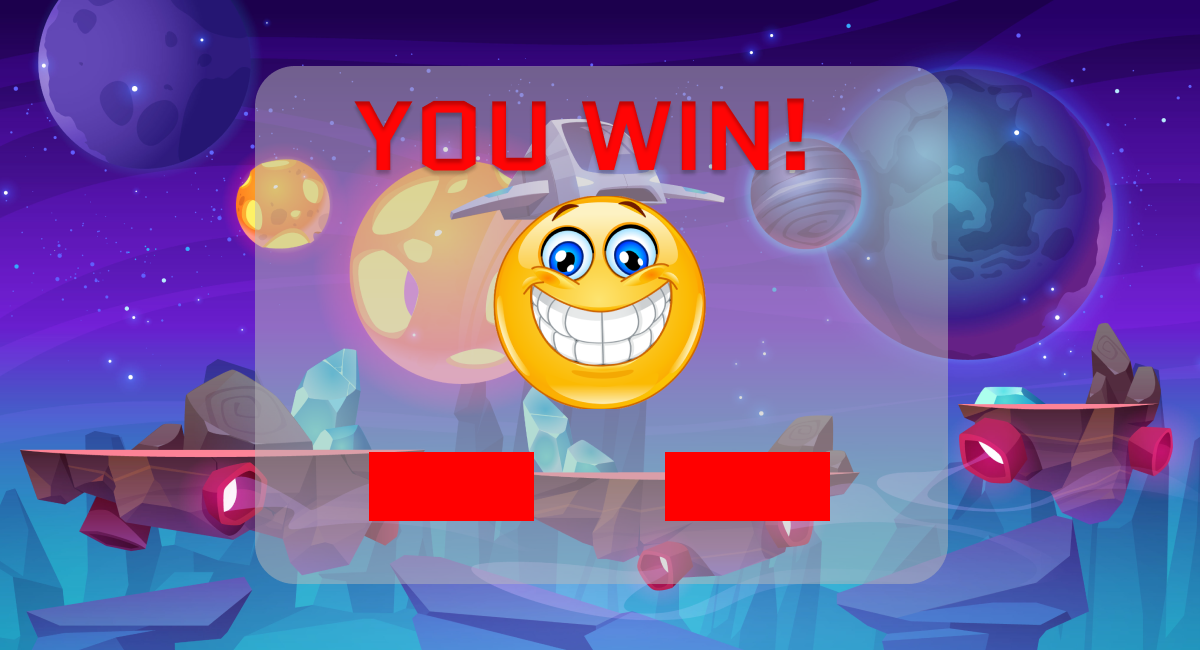
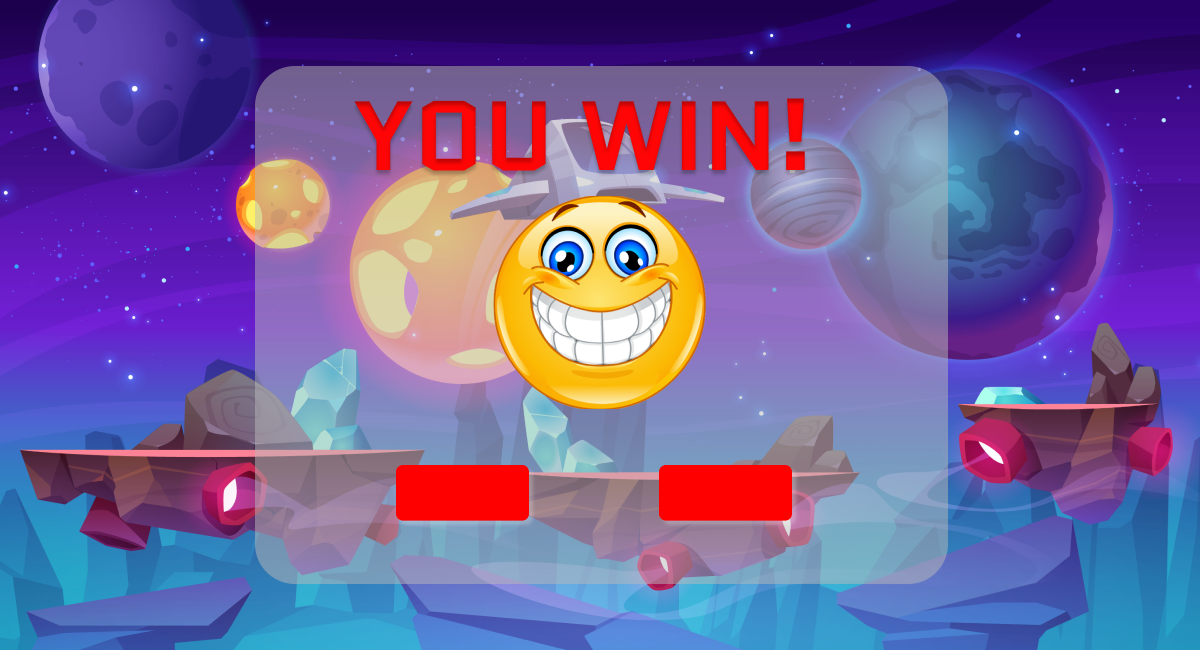
add main ennemy

diff --git a/invader_shooter.py b/invader_shooter.py
@@ -121,8 +121,8 @@ def global_variable():
 
 def displayLost():
     canvas.create_image(1200, 650, anchor=SE, image=game_over)
-    canvas.create_text(452,467,text="AGAIN",font=("Purisa", 30, BOLD), fill="white",tags=("startTheGame","start"))
-    canvas.create_text(744,467,text="EXIT",font=("Purisa", 30, BOLD), fill="white",tags=("exitTheGame","start"))
+    canvas.create_text(452,480,text="AGAIN",font=("Purisa", 25, BOLD), fill="white",tags=("startTheGame","start"))
+    canvas.create_text(748,480,text="EXIT",font=("Purisa", 25, BOLD), fill="white",tags=("exitTheGame","start"))
 
 # def displayWin():
 #     canvas.create_image(1200, 650, anchor=SE, image=game_win)
